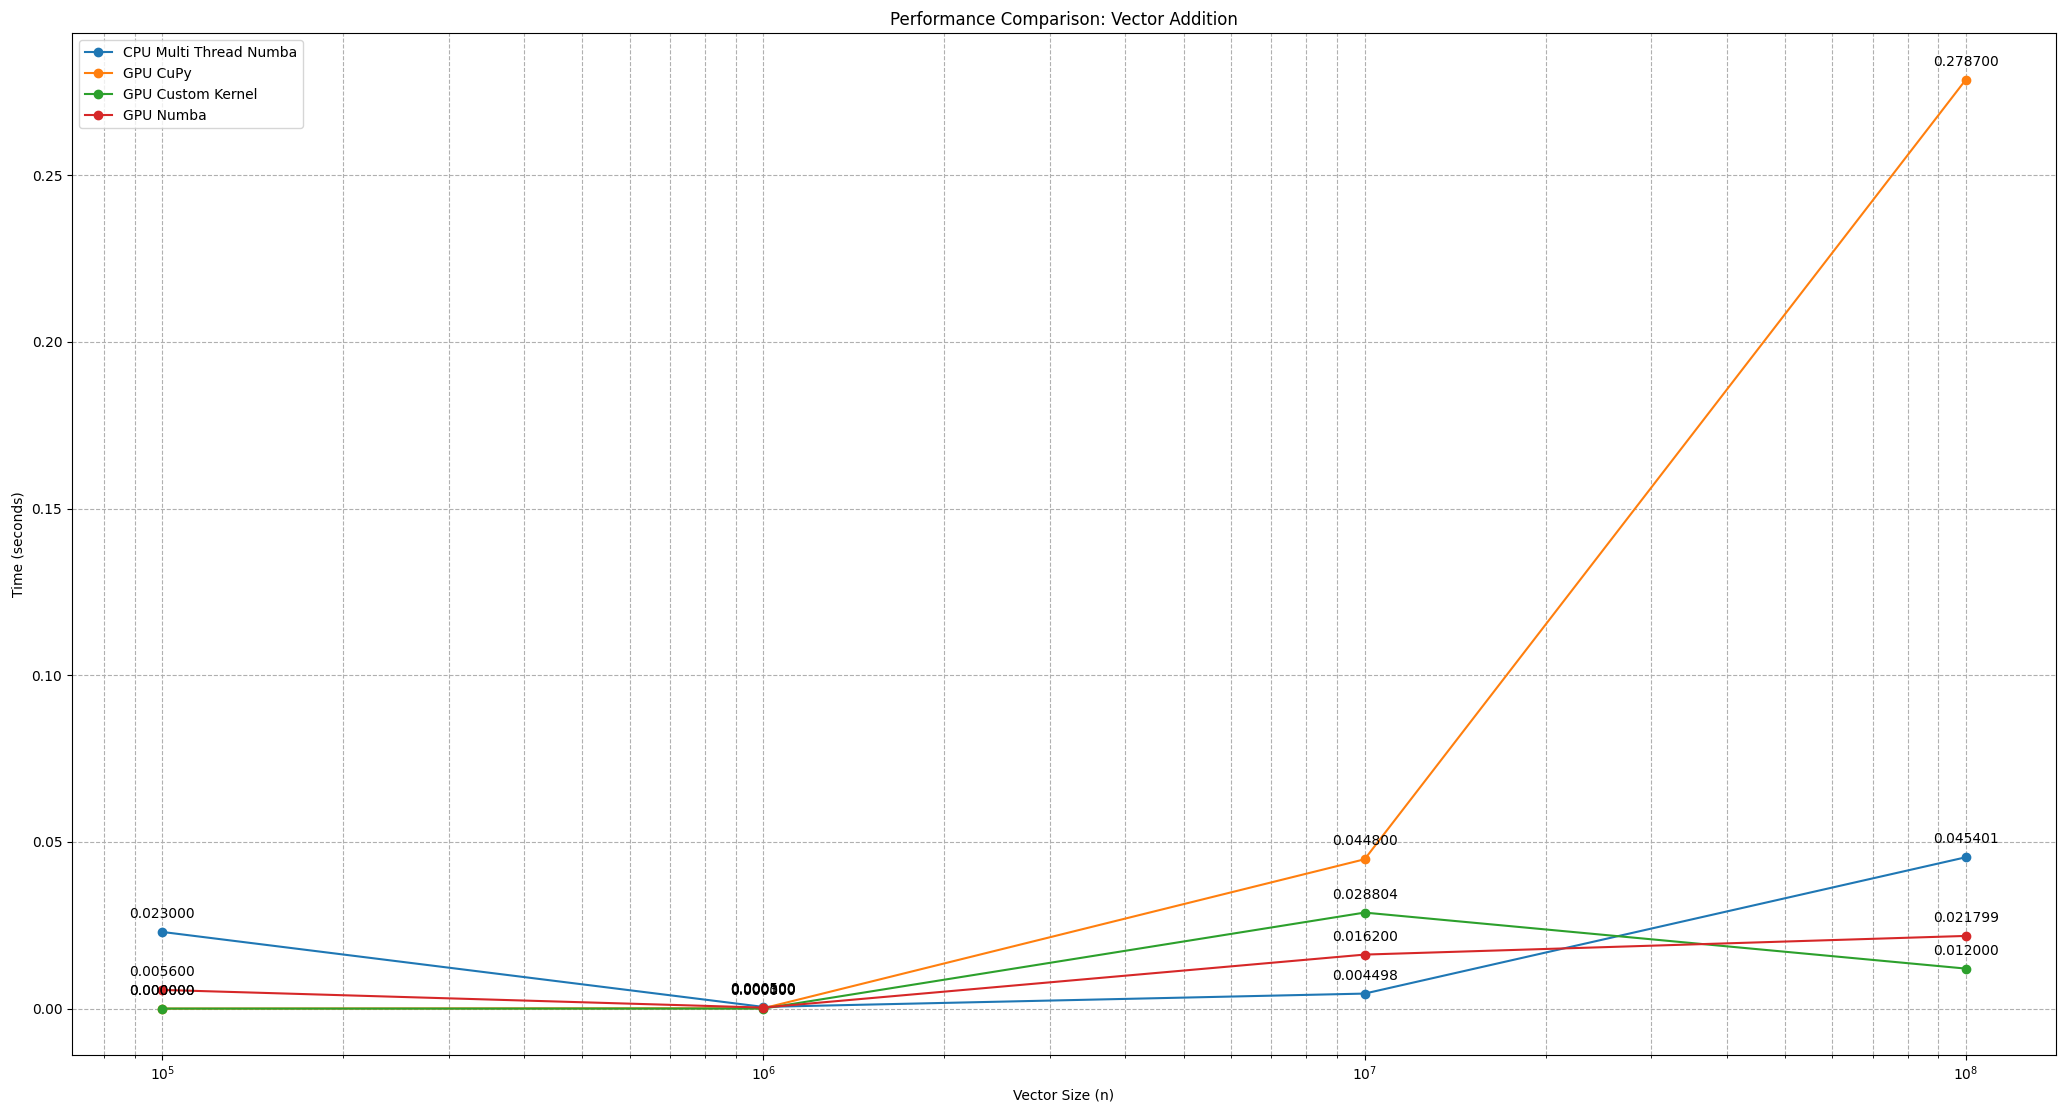
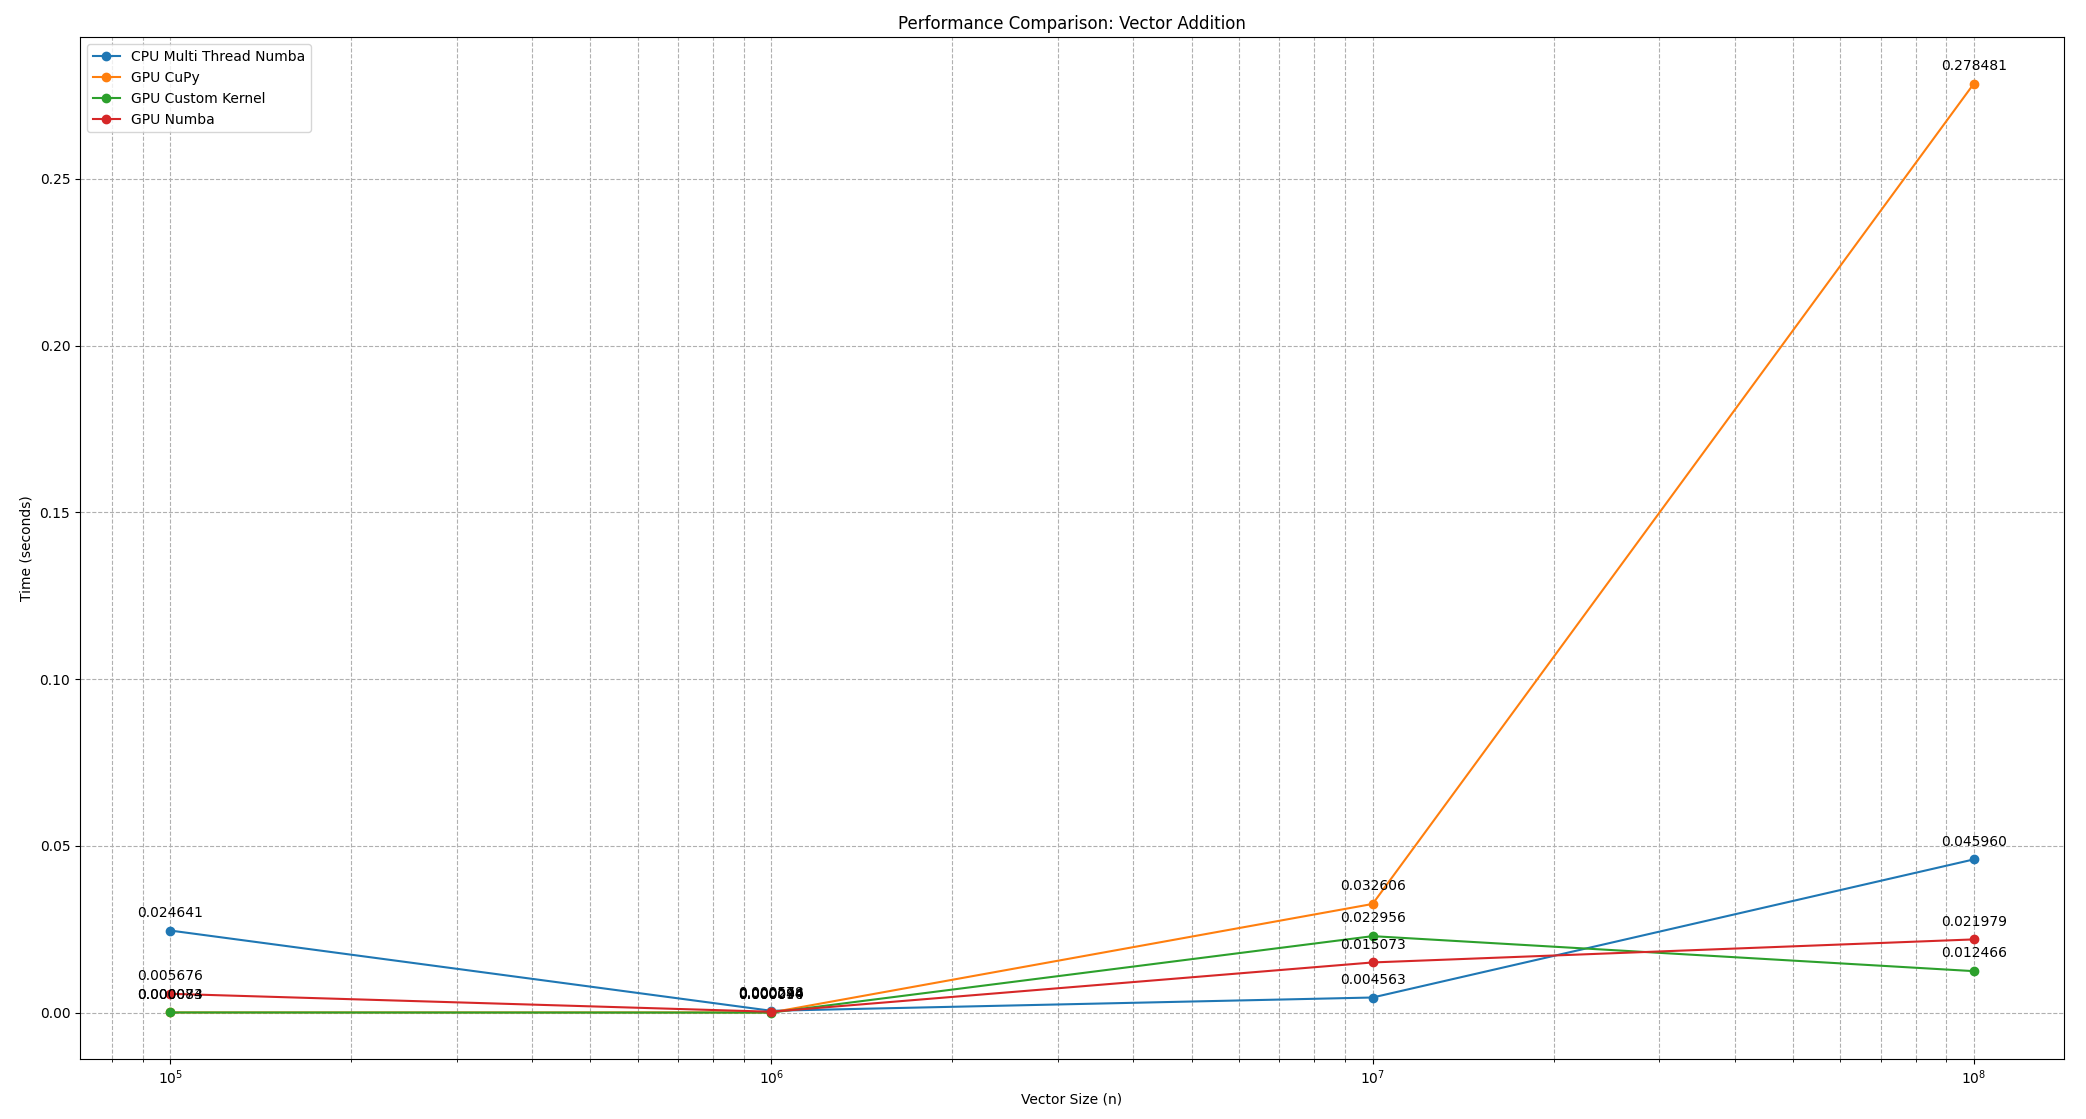
Changed time.time() with time.pref_counter()
- Tests redone
- No longer instant values

diff --git a/vector_addition/gpu_vector_addition.py b/vector_addition/gpu_vector_addition.py
@@ -10,16 +10,16 @@ def gpu_vector_addition_cupy(n):
     b = cp.random.rand(n)
     c = cp.empty_like(a)
 
-    # Start the timer
-    start_time = time.time()
+    # Start timing
+    start_time = time.perf_counter()
 
     cp.add(a, b, c)
 
     # Synchronize the device to ensure all operations are finished
     cp.cuda.Device().synchronize()
 
-    # End the timer
-    end_time = time.time()
+    # End timing
+    end_time = time.perf_counter()
 
     # Calculate the time taken
     time_taken = end_time - start_time
@@ -54,8 +54,8 @@ def gpu_vector_addition_cupy_custom_kernel(n):
 
     blocks_per_grid = (n + max_threads_per_block - 1) // max_blocks_per_grid
 
-    # Start the timer
-    start_time = time.time()
+    # Start timing
+    start_time = time.perf_counter()
 
     # Launch the custom kernel
     vector_addition_kernel((blocks_per_grid,), (max_threads_per_block,), (a, b, c, n))
@@ -63,8 +63,8 @@ def gpu_vector_addition_cupy_custom_kernel(n):
     # Synchronize the device to ensure all operations are finished
     cp.cuda.Device().synchronize()
 
-    # End the timer
-    end_time = time.time()
+    # End timing
+    end_time = time.perf_counter()
 
     # Calculate the time taken
     time_taken = end_time - start_time
@@ -92,11 +92,14 @@ def gpu_vector_addition_numba(n):
     threads_per_block = 256
     blocks_per_grid = (a.size + (threads_per_block - 1)) // threads_per_block
 
-    # Timing the multi-threaded CPU implementation
-    start_time = time.time()
+    # Start timing
+    start_time = time.perf_counter()
+
     vector_add_gpu[blocks_per_grid, threads_per_block](a_device, b_device, c_device)
     cuda.synchronize()
-    end_time = time.time()
+
+    # End timing
+    end_time = time.perf_counter()
 
     # Calculate the time taken
     time_taken = end_time - start_time

diff --git a/vector_addition/cpu_vector_addition.py b/vector_addition/cpu_vector_addition.py
@@ -27,11 +27,12 @@ def cpu_vector_addition_single_thread(n):
     b = np.random.rand(n)
     c = np.empty_like(a)
 
-    # Start the timer
-    start_time = time.time()
+    # Start timing
+    start_time = time.perf_counter()
+
     vector_add_single_thread(a, b, c)
-    # End the timer
-    end_time = time.time()
+    # End timing
+    end_time = time.perf_counter()
     # Calculate the time taken
     time_taken = end_time - start_time
 
@@ -48,7 +49,8 @@ def cpu_vector_addition_vanilla_python(n):
     chunk_size = len(a) // num_cores
     threads = []
 
-    start_time = time.time()
+    # Start timing
+    start_time = time.perf_counter()
 
     for i in range(num_cores):
         start = i * chunk_size
@@ -60,7 +62,8 @@ def cpu_vector_addition_vanilla_python(n):
     for thread in threads:
         thread.join()
 
-    end_time = time.time()
+    # End timing
+    end_time = time.perf_counter()
 
     time_taken = end_time - start_time
     return time_taken
@@ -70,10 +73,11 @@ def cpu_vector_addition_multithread_numba(n):
     b = np.random.rand(n)
     c = np.empty_like(a)
 
-    # Timing the multi-threaded CPU implementation
-    start_time = time.time()
+    # Start timing
+    start_time = time.perf_counter()
     vector_add_multi_thread(a, b, c)
-    end_time = time.time()
+    # End timing
+    end_time = time.perf_counter()
 
     # Calculate the time taken
     time_taken = end_time - start_time

diff --git a/vector_addition/main.py b/vector_addition/main.py
@@ -46,7 +46,7 @@ def compare_performance(n_values, num_runs=10):
         print(f"GPU (Custom Kernel) average: {results['gpu_custom_kernel'][-1]:.10f} seconds")
         print(f"GPU (Numba) average: {results['gpu_numba'][-1]:.10f} seconds")
 
-    with open("performance_results_2.json", "w") as f:
+    with open("performance_results.json", "w") as f:
         json.dump(results, f)
 
 

diff --git a/vector_addition/plot_results.py b/vector_addition/plot_results.py
@@ -15,7 +15,7 @@ class Method(Enum):
 
 
 def plot_performance(methods_to_plot):
-    with open("performance_results_2.json", "r") as f:
+    with open("performance_results.json", "r") as f:
         results = json.load(f)
 
     dimensions = results["dimensions"]

diff --git a/vector_addition/README.md b/vector_addition/README.md
@@ -19,20 +19,20 @@ The experiments were done on:
 | 10          | Parallel Vanilla| 0.020700       | 0.123999       | 1.201112       | 11.910937      | 0.8367x        | 1.2006x        | 0.9953x        | 0.9937x        |
 | 10          | Parallel Numba  | 0.022700       | 0.000701       | 0.004704       | 0.044202       | 0.7621x        | 212.411x       | 254.135x       | 267.698x       |
 
-*Table 1: Results of CPU Sequential/Parallel runs and their speedups.
+*Table 1: Results of CPU Sequential/Parallel runs and their speedups.*
 
 ### Matplot lib plot of the Table 1
 ![CPU comp.](results/cpu_vec_addition.png)
 
 ### Comparison between CPU Sequential, CPU Parallel, GPU Parallel
 
-| Nr. of runs | Impl               | 10^5 (seconds)  | 10^6 (seconds)  | 10^7 (seconds)  | 10^8 (seconds)  | Speedup (10^5) | Speedup (10^6) | Speedup (10^7) | Speedup (10^8) |
-|-------------|--------------------|-----------------|-----------------|-----------------|-----------------|----------------|----------------|----------------|----------------|
-| 10          | Sequential         | 0.0164995670    | 0.1459046364    | 1.2011038065    | 12.1688993454   |                |                |                |                |
-| 10          | CPU Numba          | 0.0229999304    | 0.0005003691    | 0.0044983625    | 0.0454012632    | 0.7174x        | 291.594x       | 267.001x       | 268.023x       |
-| 10          | GPU Numba          | 0.0056002140    | 0.0003001690    | 0.0161995411    | 0.0217994690    | 2.946x         | 486.07x        | 74.144x        | 558.220x       |
-| 10          | GPU CuPy           | 0.0000000000    | 0.0000999689    | 0.0448000193    | 0.2786999464    | instant*       | 1460x          | 26.810x        | 43.663x        |
-| 10          | GPU Custom Kernel  | 0.0000000000    | 0.0000000000    | 0.0288044691    | 0.0119998932    | instant*       | instant*       | 41.699x        | 1014.08x       |
+| Nr. of runs | Impl               | 10^5 (seconds) | 10^6 (seconds) | 10^7 (seconds) | 10^8 (seconds) | Speedup (10^5) | Speedup (10^6) | Speedup (10^7) | Speedup (10^8) |
+|-------------|--------------------|----------------|----------------|----------------|----------------|----------------|----------------|----------------|----------------|
+| 10          | Sequential         | 0.0166047100   | 0.1429307300   | 1.1719473900   | 11.872801800   |                |                |                |                |
+| 10          | CPU Numba          | 0.0246411900   | 0.0005784900   | 0.0045634300   | 0.0459598300   | 0.673x         | 247.075x       | 256.812x       | 258.318x       |
+| 10          | GPU Numba          | 0.0056764010   | 0.0002983500   | 0.0150725600   | 0.0219712000   | 2.925x         | 486.407x       | 77.753x        | 540.161x       |
+| 10          | GPU CuPy           | 0.0000837400   | 0.0000902200   | 0.0326053800   | 0.2794807300   | 199.930x       | 1584.246x      | 35.942x        | 42.632x        |
+| 10          | GPU Custom Kernel  | 0.0000738800   | 0.0000436800   | 0.0229561000   | 0.0124657700   | 224.752x       | 3272.22x       | 51.051x        | 952.390x       |
 
 *Table 2: Comparison between CPU Sequential, CPU Parallel, and GPU Parallel.*
 
